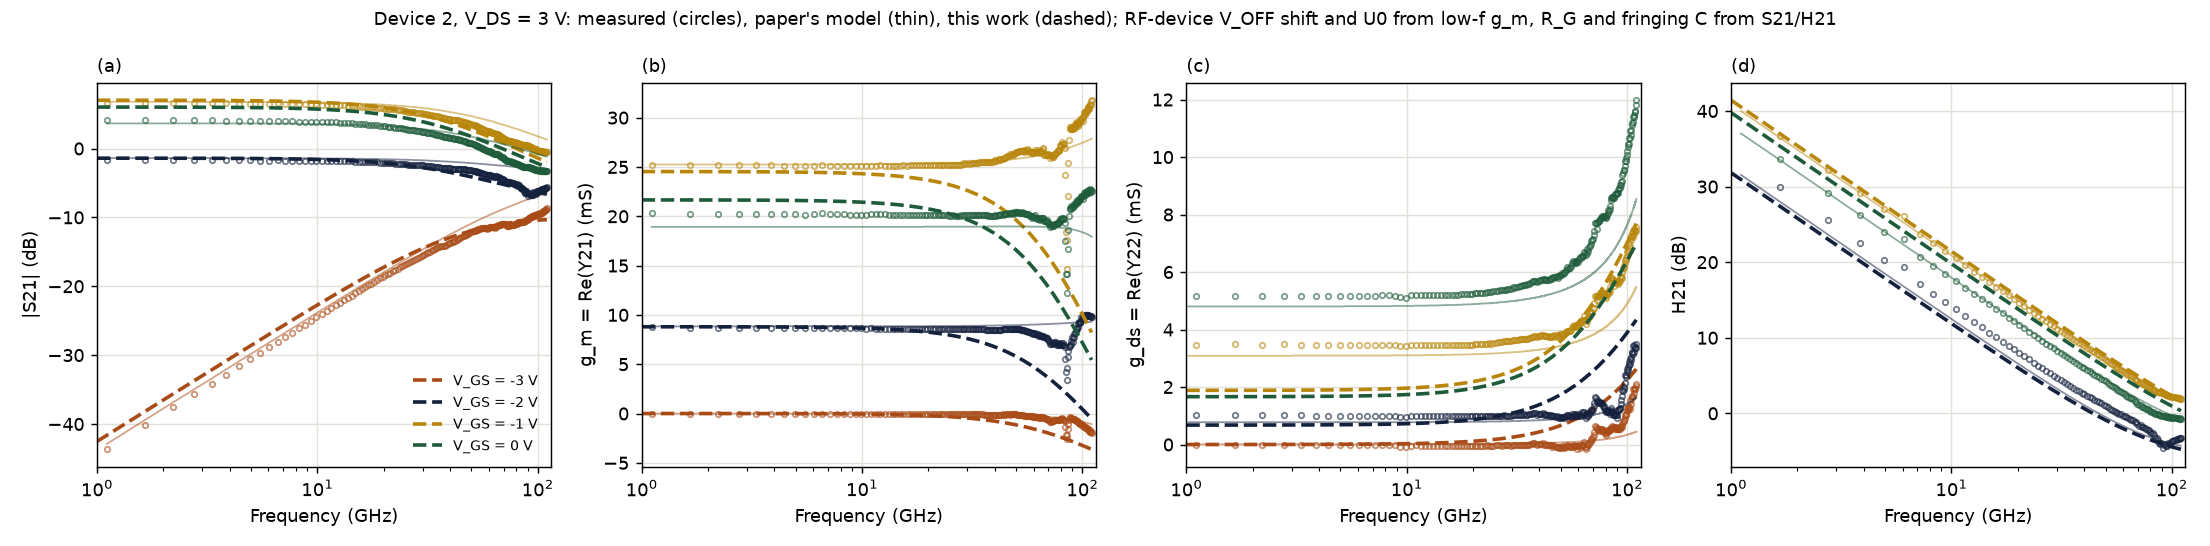
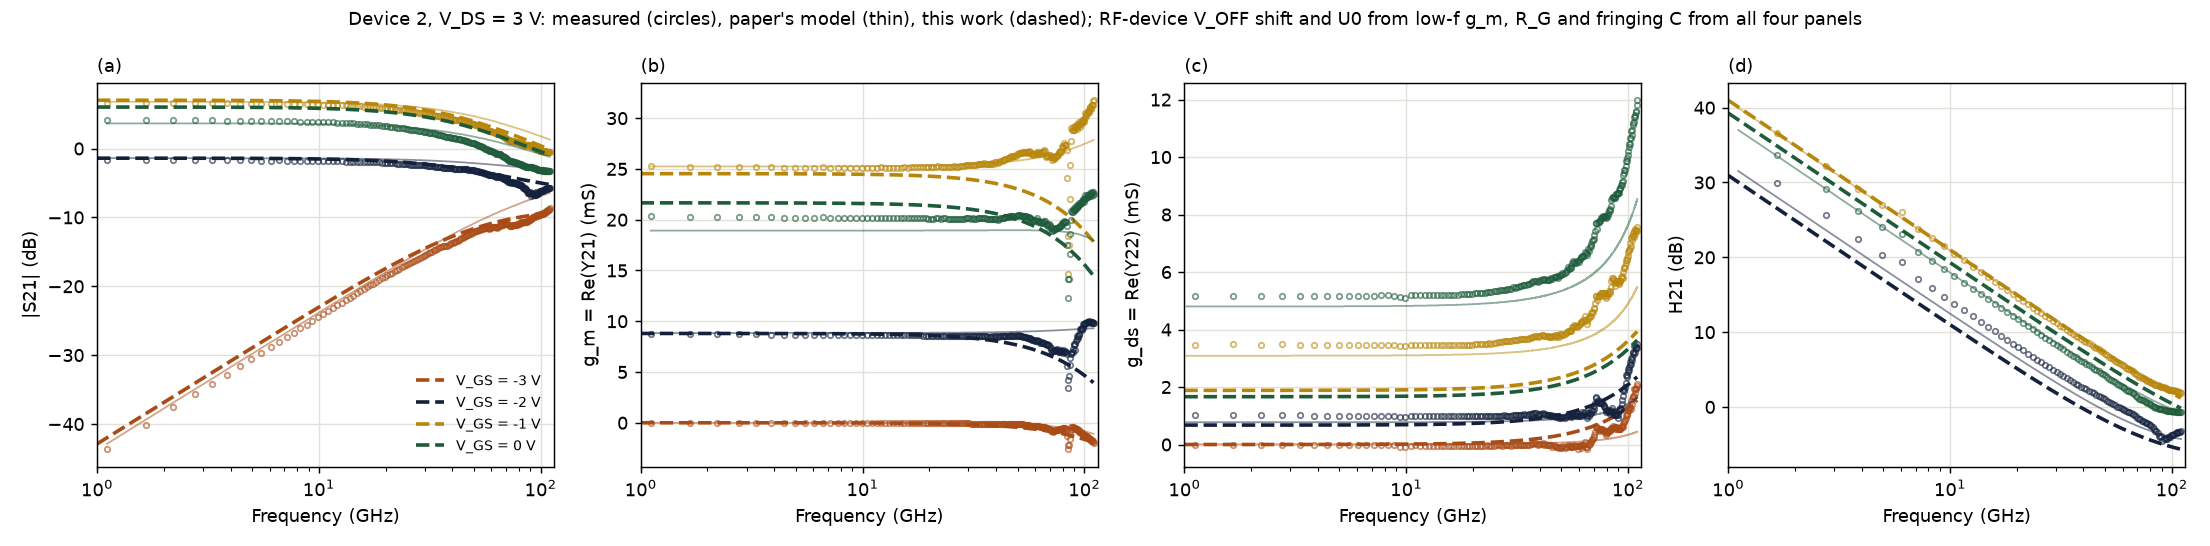
Step 11b: Fig. 9 extrinsics fitted on all four panels (R_G 3.6 ohm)

diff --git a/fig9.py b/fig9.py
@@ -5,8 +5,8 @@ Model: Verilog-A twin (rf_twin.py) with the Step 11a DC parameters (params_devic
 RF-device calibration [CALIBRATE, user choice 1B, 18 Nov; DEVIATION D6]:
   1. DVOFF (V_OFF shift) and U0 (access mobility) to the low-frequency g_m = Re(Y21) of Fig. 9(b) at 1-3 GHz:
      the S-parameter device is on at V_GS = -2 V while Fig. 6(b) is off below -1.5 V (candidate printed item 17).
-  2. R_G and constant C_GS,Fr, C_GD,Fr, C_DS,Fr [ASSUME constant] to Fig. 9(a) |S21| and Fig. 9(d) H21, all biases.
-  g_ds (Fig. 9(c)) and g_m above 3 GHz are predicted, not fitted.
+  2. R_G and constant C_GS,Fr, C_GD,Fr, C_DS,Fr [ASSUME constant] to all four panels of Fig. 9, all biases
+     (g_m and g_ds up to 80 GHz). S21 and H21 alone cannot separate R_G from C_GS,Fr; the flat measured g_m can.
 """
 import json
 import numpy as np
@@ -56,7 +56,18 @@ r = RF(2, over=OV)
 def res(x):
     r.rg, r.cgs, r.cgd, r.cds = x[0], x[1] * 1e-15, x[2] * 1e-15, x[3] * 1e-15
     c = curves(r)
-    return np.concatenate([at(c, p, v, M[p][v][:, 0]) - M[p][v][:, 1] for p in "ad" for v in VG if not (p == "d" and v == -3)])
+    # all four panels (dB and mS on equal footing); g_m and g_ds above 80 GHz excluded: the measured traces turn
+    # erratic there (de-embedding resonance), visible in the paper's own Fig. 9(b)-(c) [ASSUME]
+    e = []
+    for p in "abcd":
+        for v in VG:
+            if p == "d" and v == -3:
+                continue
+            m = M[p][v]
+            if p in "bc":
+                m = m[m[:, 0] <= 80]
+            e.append(at(c, p, v, m[:, 0]) - m[:, 1])
+    return np.concatenate(e)
 s2 = least_squares(res, [5, 5, 5, 5], bounds=([0] * 4, [200] * 4))
 res(s2.x)
 c = curves(r)
@@ -90,7 +101,7 @@ for k, p in enumerate("abcd"):
     ax[k].grid(c="#e1e0d9")
 ax[0].legend(frameon=False, fontsize=8)
 fig.suptitle("Device 2, V_DS = 3 V: measured (circles), paper's model (thin), this work (dashed); "
-             "RF-device V_OFF shift and U0 from low-f g_m, R_G and fringing C from S21/H21", fontsize=10)
+             "RF-device V_OFF shift and U0 from low-f g_m, R_G and fringing C from all four panels", fontsize=10)
 plt.tight_layout()
 plt.savefig("fig9_device2.png", dpi=130)
 print("saved fig9_device2.png, rf_device2.json")
